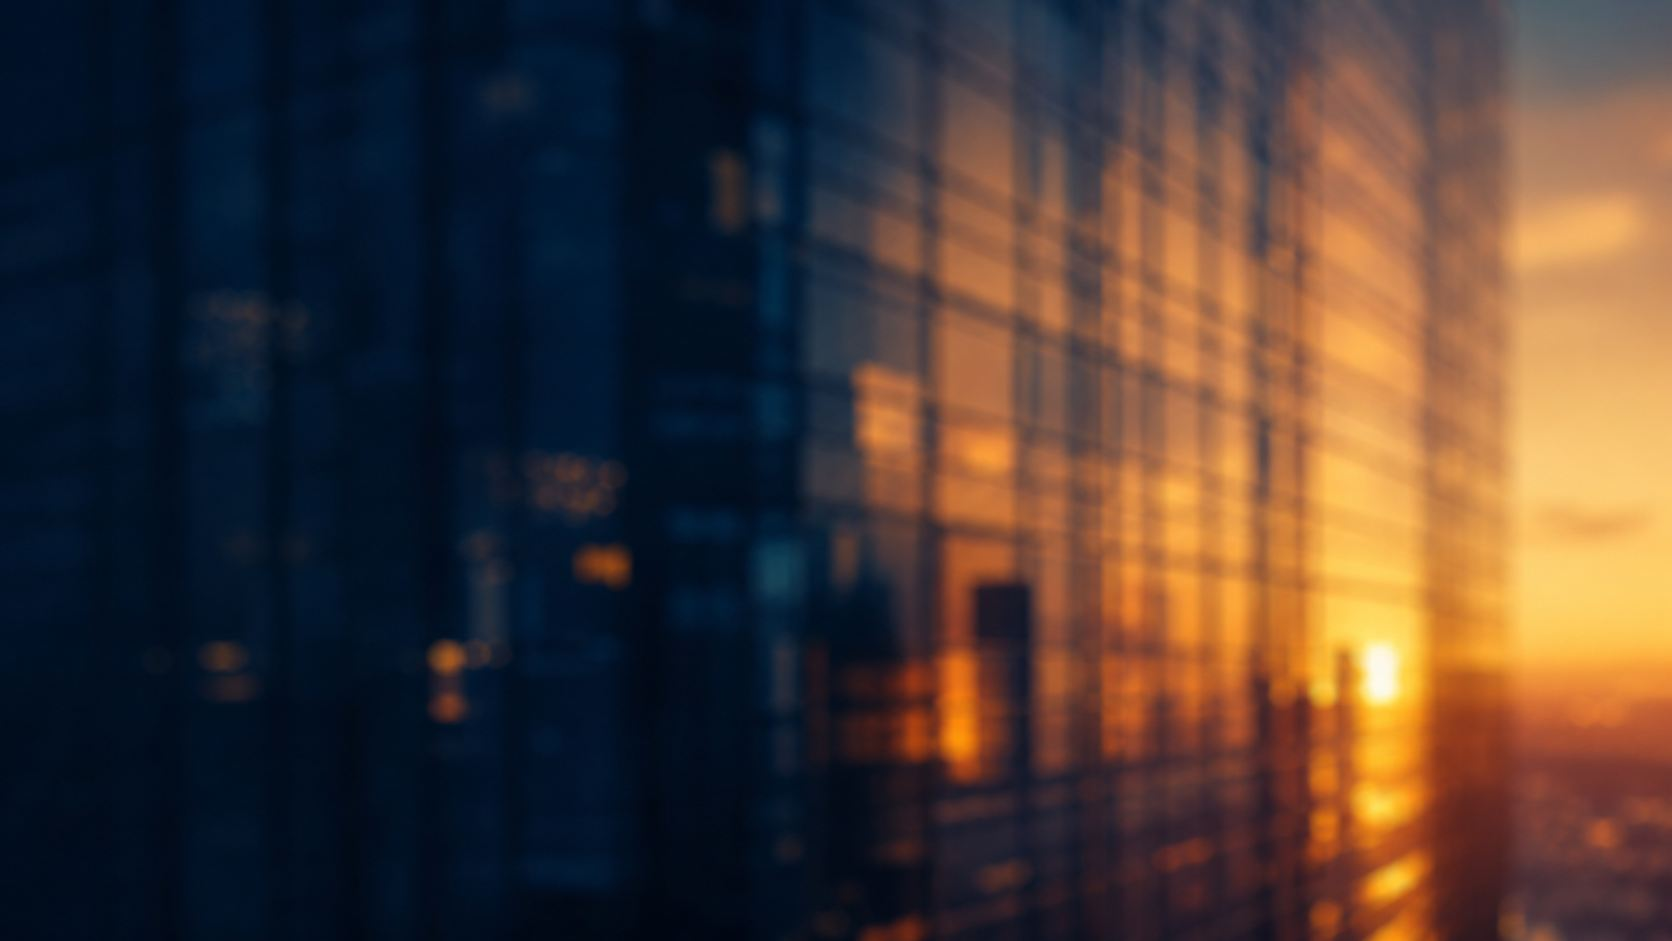
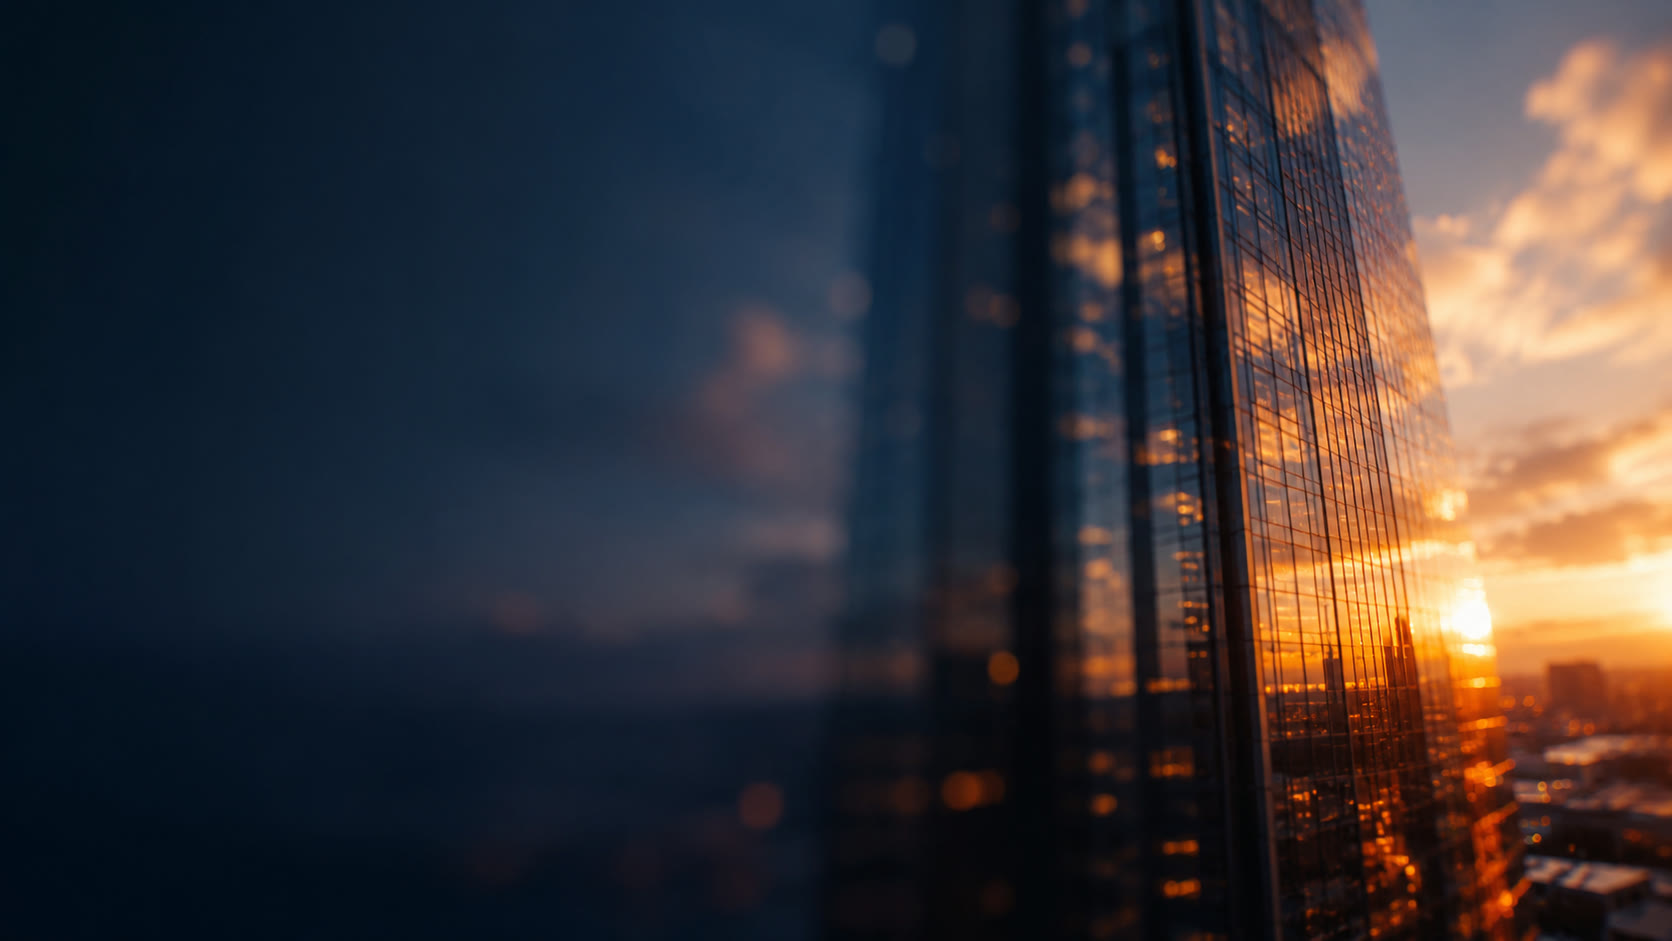
feat: лого из исходника (прозрачный PNG), фикс исчезающей плашки в Hero

diff --git a/src/components/BrandMark.tsx b/src/components/BrandMark.tsx
@@ -1,34 +1,7 @@
-// Фирменный знак «Вертикальные Решения»: буква V из двух сходящихся строп,
-// верёвка-спусковуха и карабин снизу. V наследует цвет текста (currentColor),
-// карабин — оранжевый акцент.
-//
-// watermark=true — режим гигантского призрачного знака (в Hero): всё рисуется
-// одним currentColor, без хардкод-оранжа и тёмной прорези, иначе карабин
-// вылезает ярко-оранжевым «квадратом» поверх фона.
-export function BrandMark({
-  className,
-  watermark = false,
-}: {
-  className?: string
-  watermark?: boolean
-}) {
-  return (
-    <svg
-      viewBox="0 0 100 116"
-      fill="none"
-      aria-hidden
-      className={className}
-      xmlns="http://www.w3.org/2000/svg"
-    >
-      {/* Левая стропа */}
-      <path d="M8 8 L26 8 L52 74 L43 74 Z" fill="currentColor" />
-      {/* Правая стропа */}
-      <path d="M92 8 L74 8 L57 74 L48 74 Z" fill="currentColor" />
-      {/* Верёвка от вершины вниз */}
-      <rect x="48" y="70" width="4" height="30" rx="2" fill="currentColor" />
-      {/* Карабин */}
-      <rect x="42" y="100" width="16" height="12" rx="4" fill={watermark ? 'currentColor' : '#f97316'} />
-      {!watermark && <rect x="46" y="103" width="8" height="6" rx="2" fill="#070b16" />}
-    </svg>
-  )
+// Фирменный знак «Вертикальные Решения» — утверждённый концепт (вариант 1),
+// вырезанный на прозрачный фон: белый V из строп + верёвка со спусковым
+// устройством. Рендерится картинкой из /logo-mark.png; размер и прозрачность
+// задаются через className в месте использования.
+export function BrandMark({ className }: { className?: string }) {
+  return <img src="/logo-mark.png" alt="" aria-hidden className={className} />
 }

diff --git a/src/sections/Hero.tsx b/src/sections/Hero.tsx
@@ -73,7 +73,7 @@ export function Hero() {
       />
 
       {/* Призрачная фирменная «V» за контентом */}
-      <BrandMark watermark className="pointer-events-none absolute left-1/2 top-1/2 -z-10 h-[88vh] w-auto -translate-x-1/2 -translate-y-1/2 text-white/[0.04]" />
+      <BrandMark className="pointer-events-none absolute left-1/2 top-1/2 -z-10 h-[80vh] w-auto -translate-x-1/2 -translate-y-1/2 opacity-[0.05]" />
 
       <motion.div
         style={{ y, opacity, filter: blur }}
@@ -262,7 +262,7 @@ function HeroCollage({
         initial={{ opacity: 0, y: 20 }}
         animate={{ opacity: 1, y: 0 }}
         transition={{ duration: 0.9, delay: 1.3, ease: [0.22, 1, 0.36, 1] }}
-        className="absolute -left-6 top-12 inline-flex items-center gap-2 rounded-2xl border border-white/10 bg-ink-900/80 px-3.5 py-2.5 text-xs text-white shadow-xl backdrop-blur-xl"
+        className="absolute -left-6 top-12 inline-flex items-center gap-2 rounded-2xl border border-white/10 z-20 bg-ink-900/90 px-3.5 py-2.5 text-xs text-white shadow-xl"
       >
         <div className="grid h-9 w-9 place-items-center rounded-xl bg-flame-500/15 ring-1 ring-flame-500/30">
           <Shield className="h-4 w-4 text-flame-300" />
@@ -277,7 +277,7 @@ function HeroCollage({
         initial={{ opacity: 0, y: 20 }}
         animate={{ opacity: 1, y: 0 }}
         transition={{ duration: 0.9, delay: 1.5, ease: [0.22, 1, 0.36, 1] }}
-        className="absolute -right-4 top-40 inline-flex items-center gap-2 rounded-2xl border border-white/10 bg-ink-900/80 px-3.5 py-2.5 text-xs text-white shadow-xl backdrop-blur-xl"
+        className="absolute -right-4 top-40 inline-flex items-center gap-2 rounded-2xl border border-white/10 z-20 bg-ink-900/90 px-3.5 py-2.5 text-xs text-white shadow-xl"
       >
         <div className="grid h-9 w-9 place-items-center rounded-xl bg-flame-500/15 ring-1 ring-flame-500/30">
           <BadgeCheck className="h-4 w-4 text-flame-300" />

diff --git a/src/sections/Footer.tsx b/src/sections/Footer.tsx
@@ -6,7 +6,7 @@ export function Footer() {
     <footer className="relative border-t border-white/5 px-5 py-10 sm:px-8">
       <div className="mx-auto flex max-w-6xl flex-col items-center justify-between gap-4 text-sm text-steel-400 sm:flex-row">
         <div className="flex items-center gap-2">
-          <BrandMark className="h-6 w-6 text-white" />
+          <BrandMark className="h-6 w-auto" />
           <span className="font-display text-lg uppercase tracking-wider text-white">{BRAND}</span>
         </div>
         <div>© {new Date().getFullYear()} · Промышленный альпинизм</div>

diff --git a/src/sections/Header.tsx b/src/sections/Header.tsx
@@ -24,7 +24,7 @@ export function Header() {
     >
       <div className="mx-auto flex h-16 max-w-6xl items-center justify-between px-5 sm:px-8">
         <a href="#top" className="flex items-center gap-2">
-          <BrandMark className="h-7 w-7 text-white" />
+          <BrandMark className="h-7 w-auto" />
           <span className="font-display text-lg uppercase tracking-wide sm:text-xl">{BRAND}</span>
         </a>
         <nav className="hidden gap-7 text-sm text-steel-300 lg:flex">